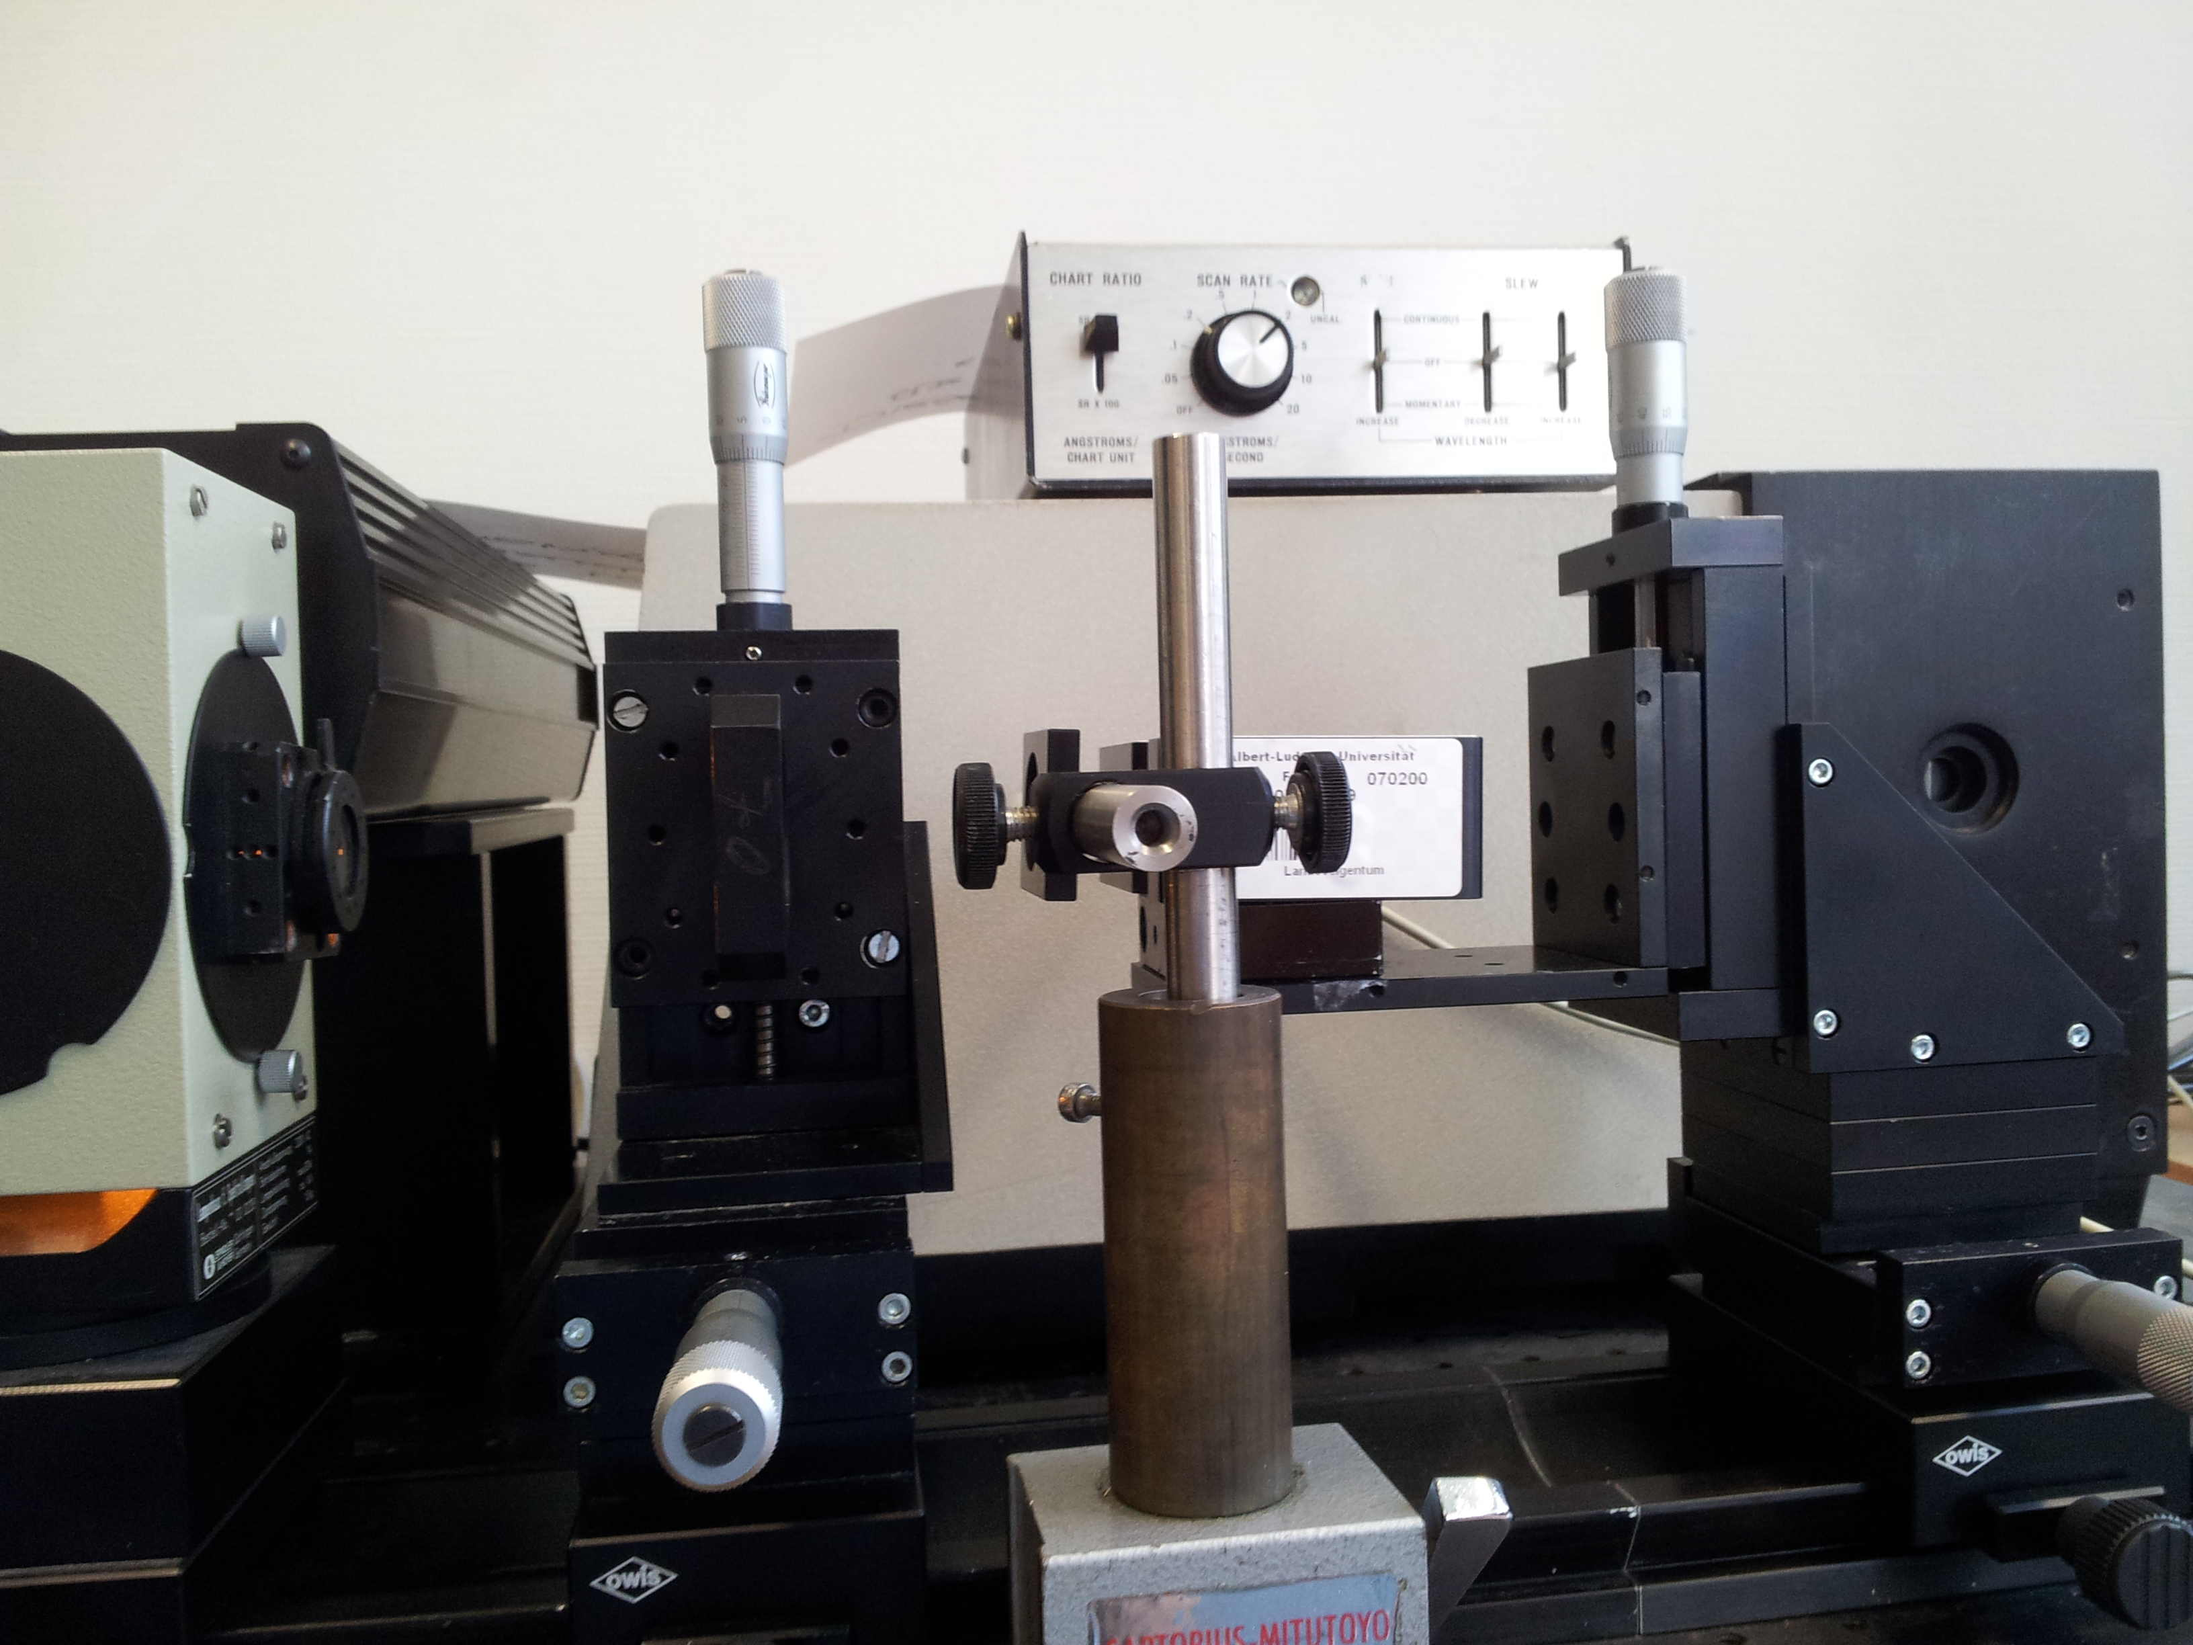
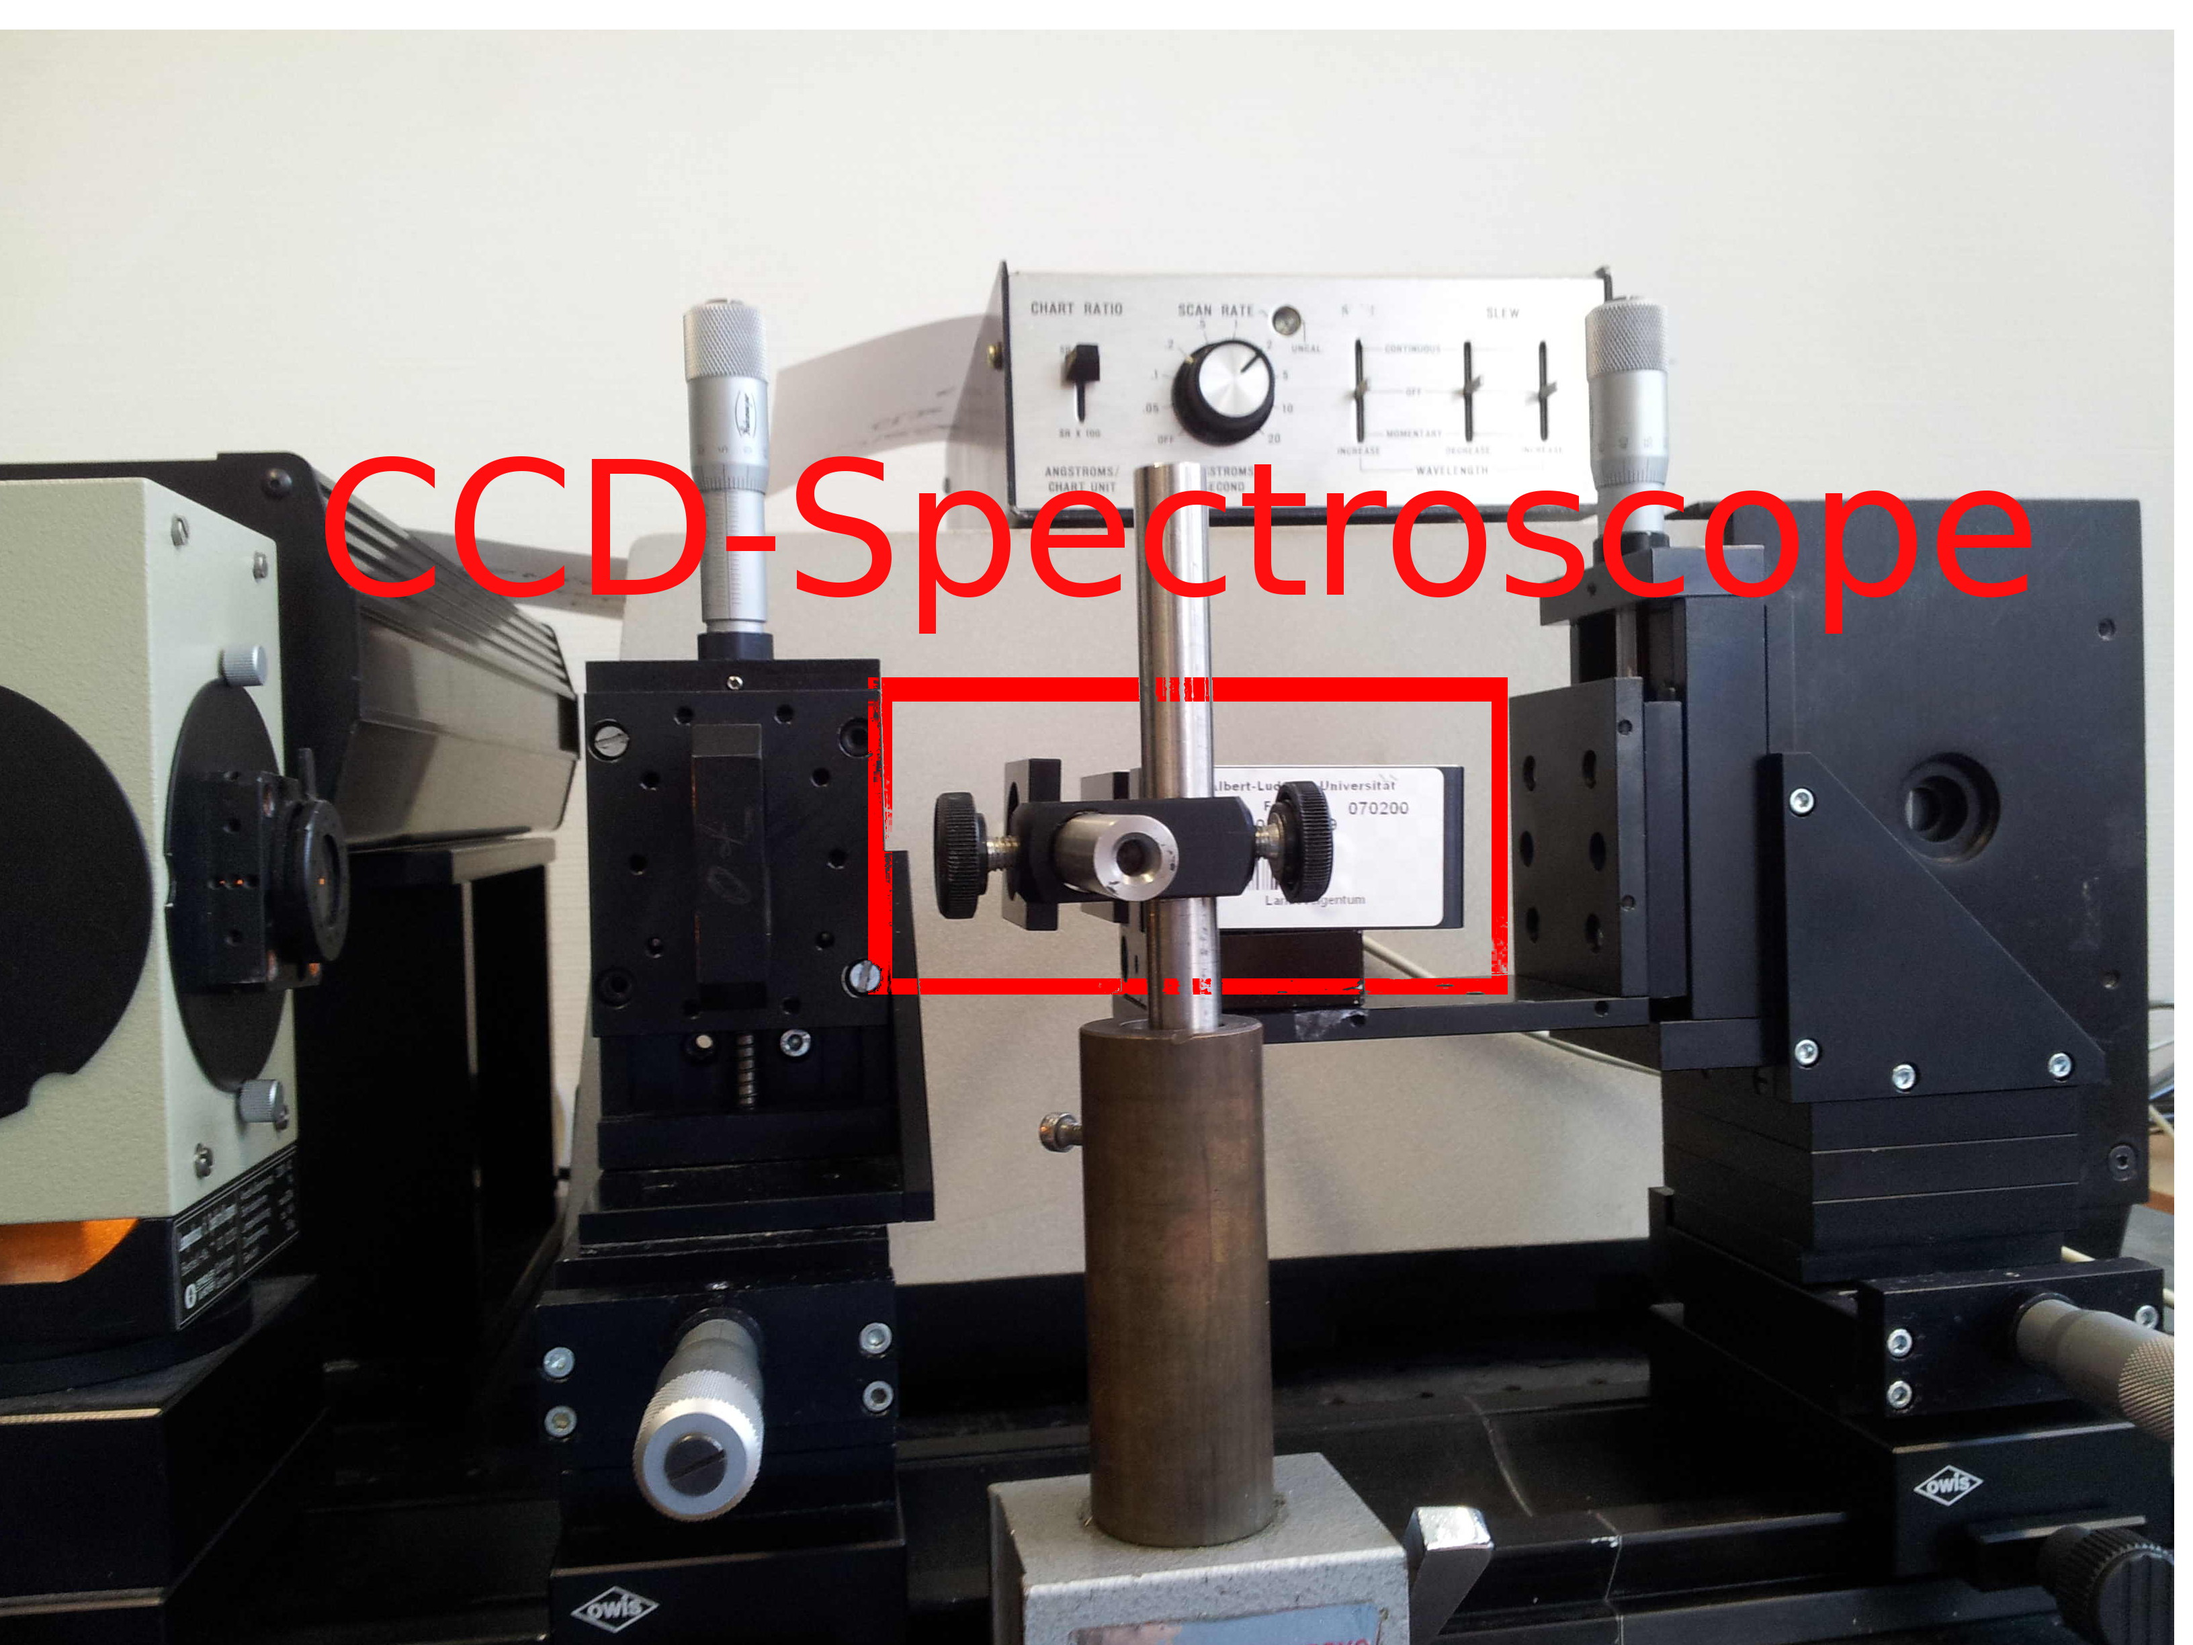
some minor changes

diff --git a/iod2/construction.tex b/iod2/construction.tex
@@ -39,21 +39,28 @@ about the iodine molecule, see table~\ref{tab:iodine}.
     \includegraphics[width=0.48\textwidth]{pics/const1}
   \end{center}
 \caption{Photography of the experimental setup when we measure
-    the spectra of given lamps.} 
+    the spectra of the given lightsources. The little white box is
+    the spectroscope.} 
  \label{fig:const1}
 
 \end{wrapfigure}
 \subsubsection{CCD-Spectroscope}
-The given spectroscope is a Charge Couple Device (CCD), it uses
+The Device itself was invented 1969 at the 
+\textit{AT\&T Bell Labs}. It is a Charge Couple Device (CCD) and it uses
 the photoeffect for translating the information of the wavelength
 of the photon into a potential difference, which can be saved
 in terms of condensators. So effectively the number of electrons
-resample the number of incoming photons. It is very widely used
+resample the number of incoming photons.
+It consists of a high-sensitivity 2048-element CCD array of sony 
+(see table~\ref{tab:ccd} for more details) and 
+
+
+It is very widely used
 both in scientific and industrial usage.
 We use the \textit{USB2000+} of the company \textit{ocean optics}
 \cite{versuchsanleitung}. The spectroscope uses a lattice in order
 to split the light beam in its wavelengths. 
-The opening is 20 $\mu m$ and the wavelengths which can be
+The opening is 20 $\mu m$ and the wavelengths which will be
 detected are 421 to 617 nm with a spectral resolution of 0.6 nm.
 After detecting 
 the photons they will be visualized at the computer, where we
@@ -68,6 +75,28 @@ can save the given spectrum to a file within the given software
   \vspace{+10pt}
 \end{wrapfigure}
 
+\begin{wraptable}{h}{7cm}
+    \caption{Specifications of the  CCD Camera \textit{usb2000+} \cite{usb2000_site}.}
+\begin{tabular}{| l | l |}
+    \hline
+    Dimensions & 89.1 mm x 63.3 mm x 34.4 mm \\ 
+    \hline
+    Detector & Sony ILX511B (2048-element \\
+             & linear silicon CCD array) \\  
+    \hline
+    Range & 200-1100 nm \\ 
+    \hline
+    Pixels: & 2048 pixels \\ 
+    \hline
+    Pixelsize & 14 µm x 200 µm \\ 
+    \hline
+    Optical resolution: & 0.3-10.0 nm \\ 
+    \hline
+\end{tabular}
+\label{tab:ccd}
+\end{wraptable}
+
+
 sample textsample textsample textsample textsample textsample text
 sample textsample textsample textsample textsample textsample text
 sample textsample textsample textsample textsample textsample text
@@ -79,8 +108,6 @@ In this experiment we will use the nearly continuos spectrum of
 the halogenlamp, but before we will calibrate the spectroscope
 with the spectra of the other lamps as following:
 \par
-Natrium 
-
 \begin{wrapfigure}{r}{0.50\textwidth}
   \begin{center}
     \includegraphics[width=0.47\textwidth]{pics/const4}

diff --git a/iod2/report.tex b/iod2/report.tex
@@ -109,7 +109,7 @@
 \section{Introduction}
 \input{intro}
 \input{theory}
-%\input{construction}
+\input{construction}
 \clearpage
 \section{Measurements}
 \clearpage
